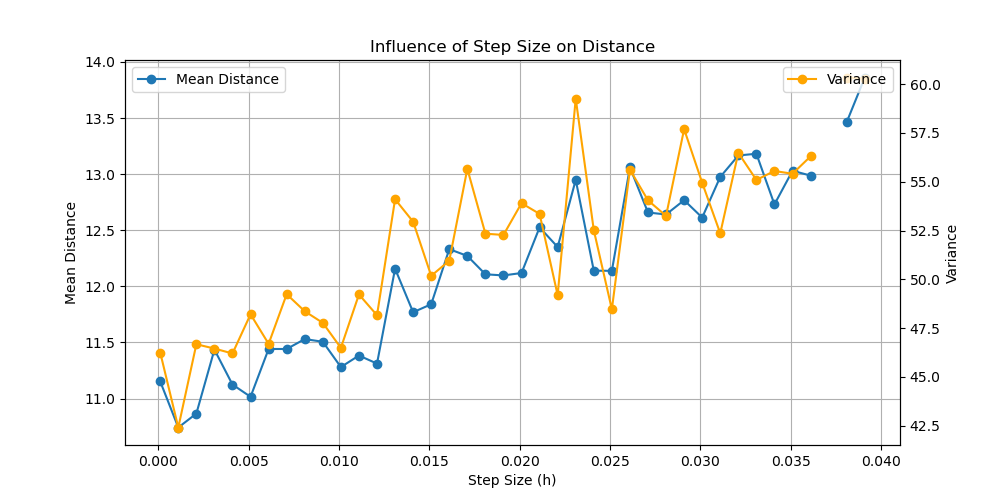
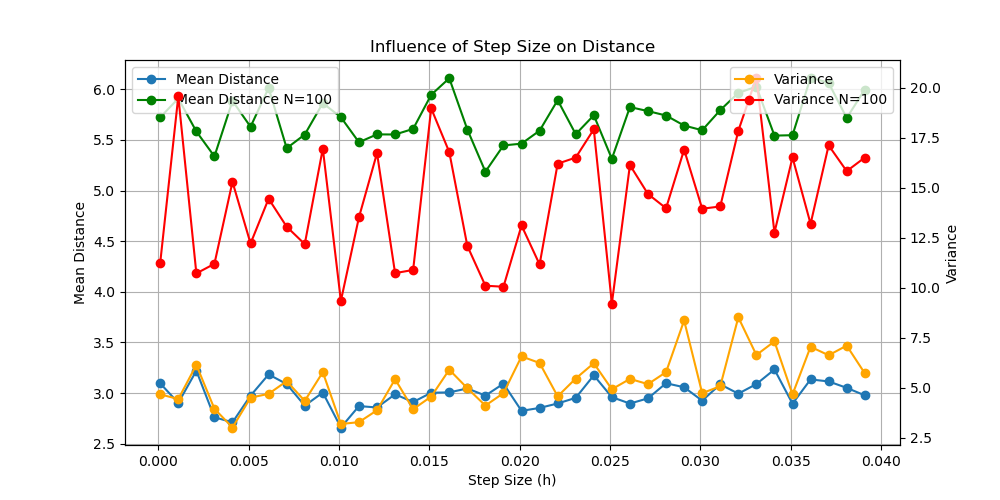
youpidou pidou pidou

diff --git a/measures.py b/measures.py
@@ -5,10 +5,7 @@ ParticleFilter = particle_filter.LorentzParticlesFilter
 LorentzSystem = particle_filter.LorentzSystem
 MeasuringTools = particle_filter.MeasuringTools
 import numpy as np
-import matplotlib.pyplot as plt
 import time
-import math
-from tqdm import tqdm
 
 
 # Parameters
@@ -20,7 +17,7 @@ tmax = 100
 h = 0.02
 
 measurement_noise = 1
-process_noise = 1
+process_noise = 10
 N = 100
 
 # Experiences :
@@ -56,7 +53,7 @@ if experience == 0:
 
     var = np.square(std_distance)
     data = np.array([h, mean_distance, std_distance, var]).T
-    np.savetxt("./data/step_size.csv", data, delimiter=";", header="Step_Size,Mean,Std,Var", comments='')
+    np.savetxt("./data/step_sizeN100.csv", data, delimiter=";", header="Step_Size,Mean,Std,Var", comments='')
     # plt.figure(figsize=(10, 5))
     # plt.plot(h, mean_distance, label='Mean Distance', marker='o')
     # plt.plot(h, std_distance, label='Standard Deviation', marker='o')
@@ -121,10 +118,10 @@ if experience == 2:
     var_methods = np.zeros(len(resampling_methods))
     temps = np.zeros(len(resampling_methods))
 
-    for i in tqdm(range(len(resampling_methods))):
+    for i in range(len(resampling_methods)):
         filter.change_resampling(resampling_methods[i])
         l1, l2 = [], []
-        for j in tqdm(range(loop)):
+        for j in range(loop):
             start = time.time()
             filtered_observation = filter.compute()
             l1.append(time.time() - start)

diff --git a/plot.py b/plot.py
@@ -11,6 +11,7 @@ experience = 0
 
 if experience == 0:
     step_size = np.loadtxt("./data/step_size.csv", delimiter=";", skiprows=1)
+    
     h = step_size[:, 0]
     mean_distance = step_size[:, 1]
     std_distance = step_size[:, 2]
